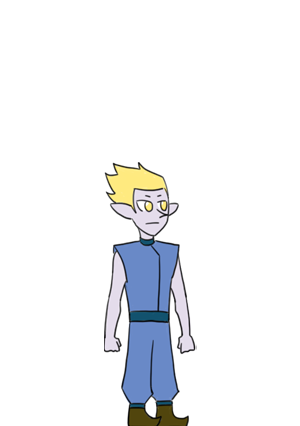
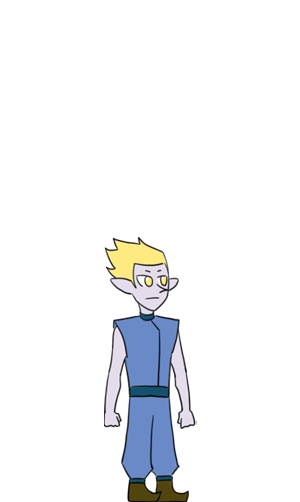
更改了人物站立动画

Changed region(s): [[0.33, 0.3662, 0.66, 1.0]]

diff --git a/assets/scripts/PersonSet.ts b/assets/scripts/PersonSet.ts
@@ -120,10 +120,7 @@ export class PersonSet extends Behaviour {
         newPerson.addBehaviour(transform);
         this.gameController.addPerson(newPerson);
         console.log(newPerson.getBehaviour(AnimationRenderer))
-        personClass.setAnimation(RoomType.WaterFactory)
-        // console.log("PersonSet!!!")
-        // console.log(newPerson.getBehaviour(PersonClass))
-        // console.log("++++++++++++++++++++++++++++++++++++++++++++++++++++++++++++++++++")
+        personClass.setAnimation(RoomType.noType);
         this.first =false;
 
 

diff --git a/assets/scripts/RoomClass.ts b/assets/scripts/RoomClass.ts
@@ -166,7 +166,8 @@ export class RoomClass extends Behaviour {
             person.getBehaviour(PersonClass).setPostion(xPos,yPos);
             person.getBehaviour(PersonClass).personModule.id = this.roomId;
             //动画 等xq测试完就放出来
-           // person.getBehaviour(PersonClass).setAnimation(this.roomType);
+           //person.getBehaviour(PersonClass).setAnimation(this.roomType); 
+           person.getBehaviour(PersonClass).setAnimation(RoomType.WaterFactory); 
             
         } 
     }
